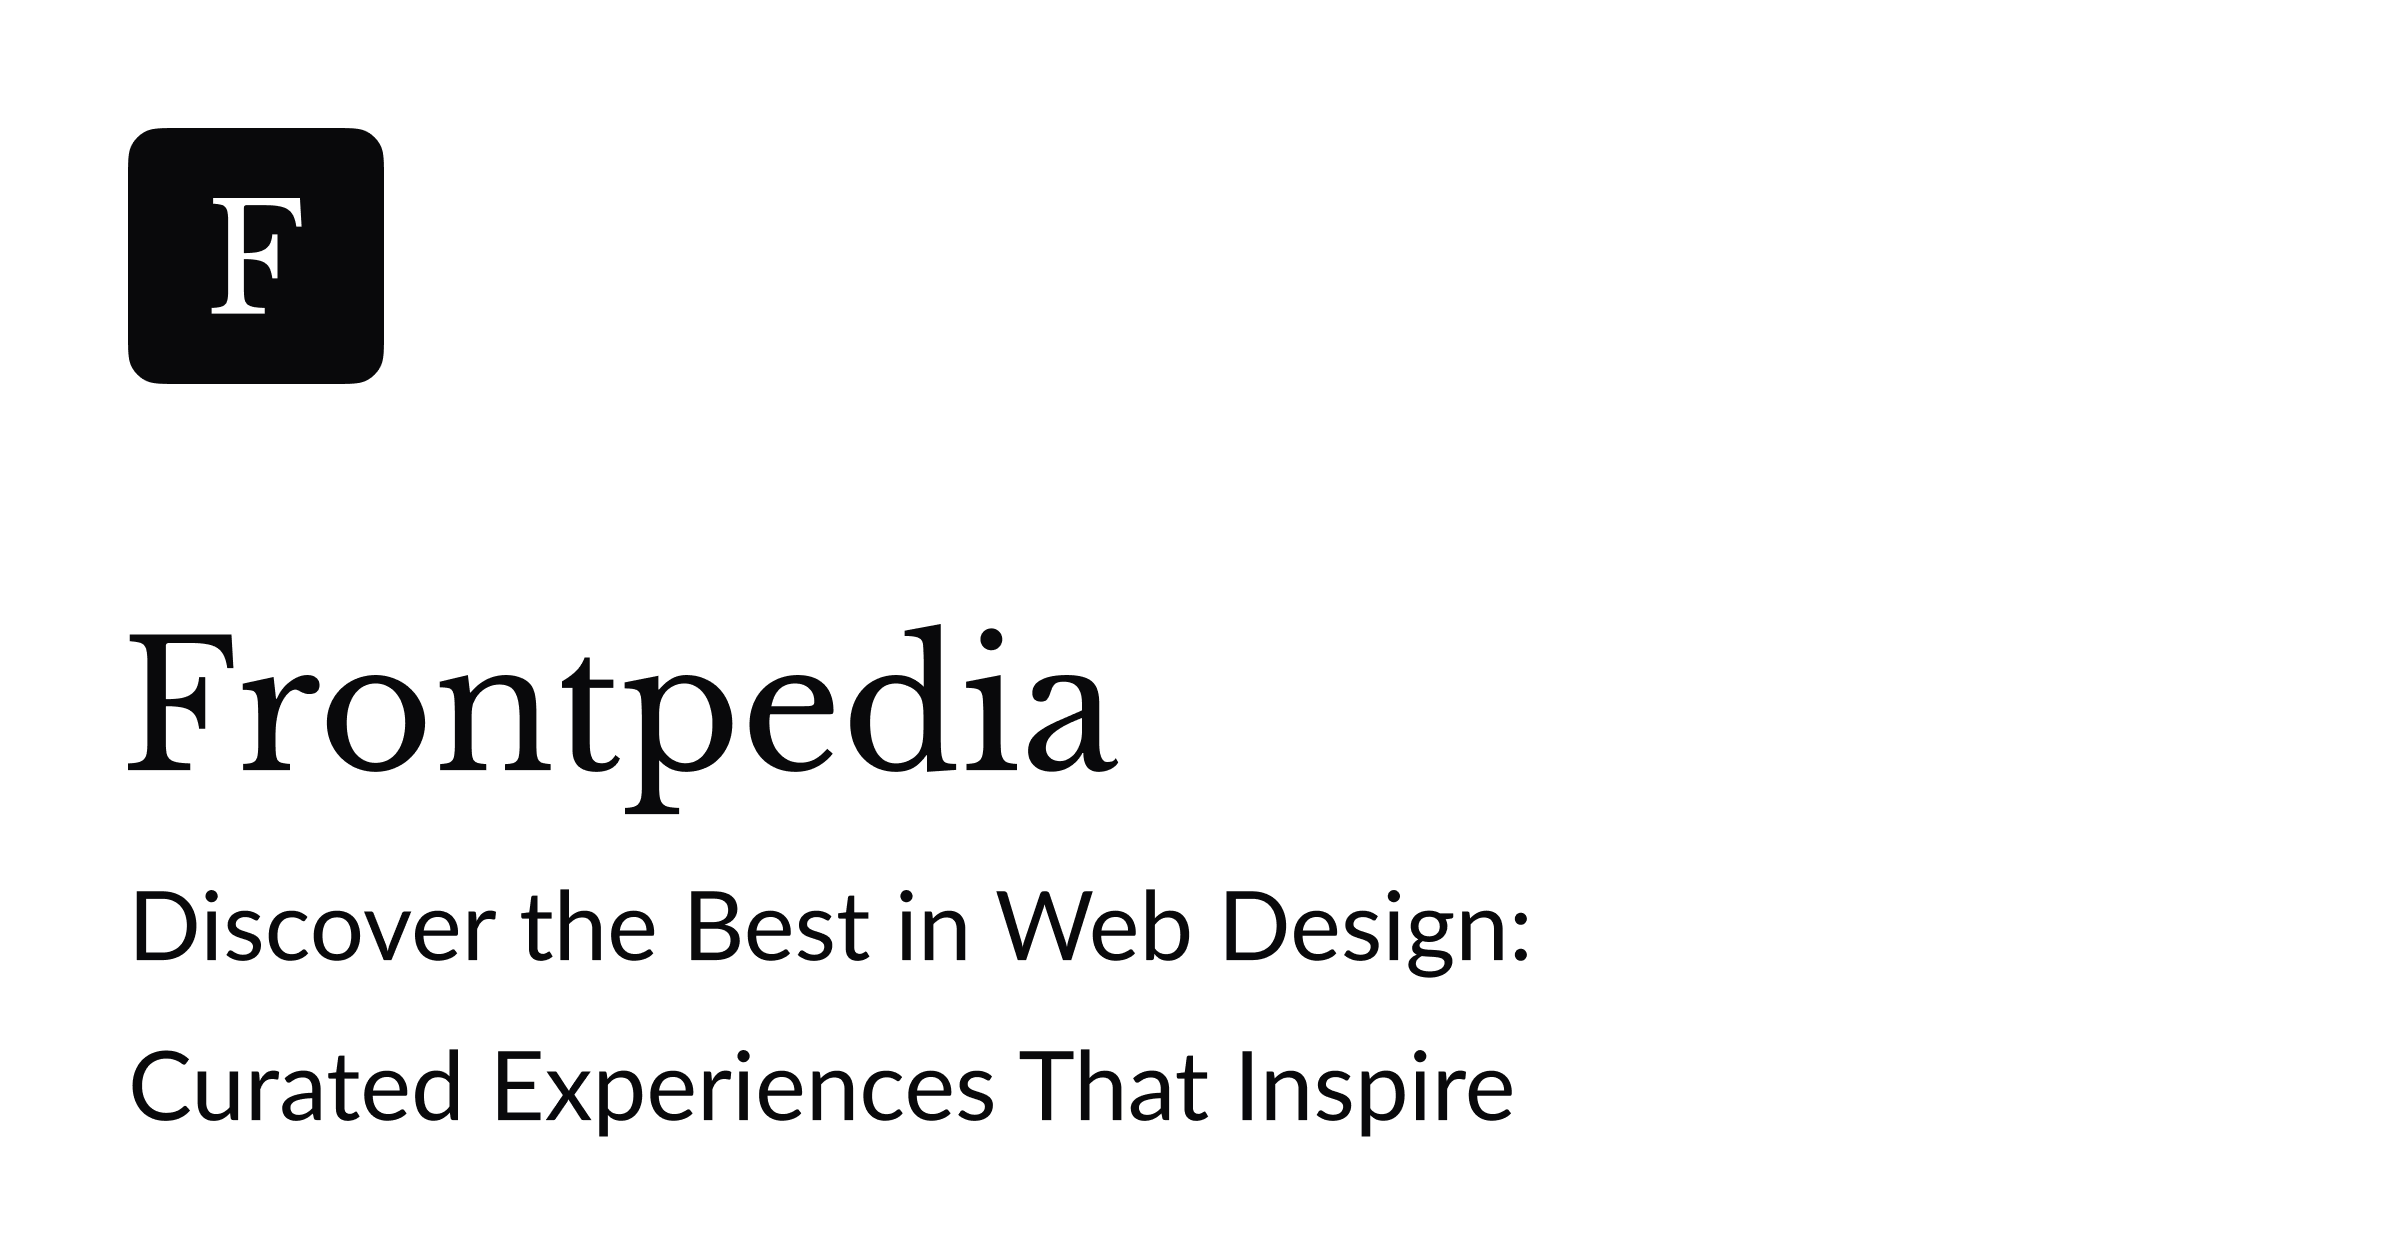
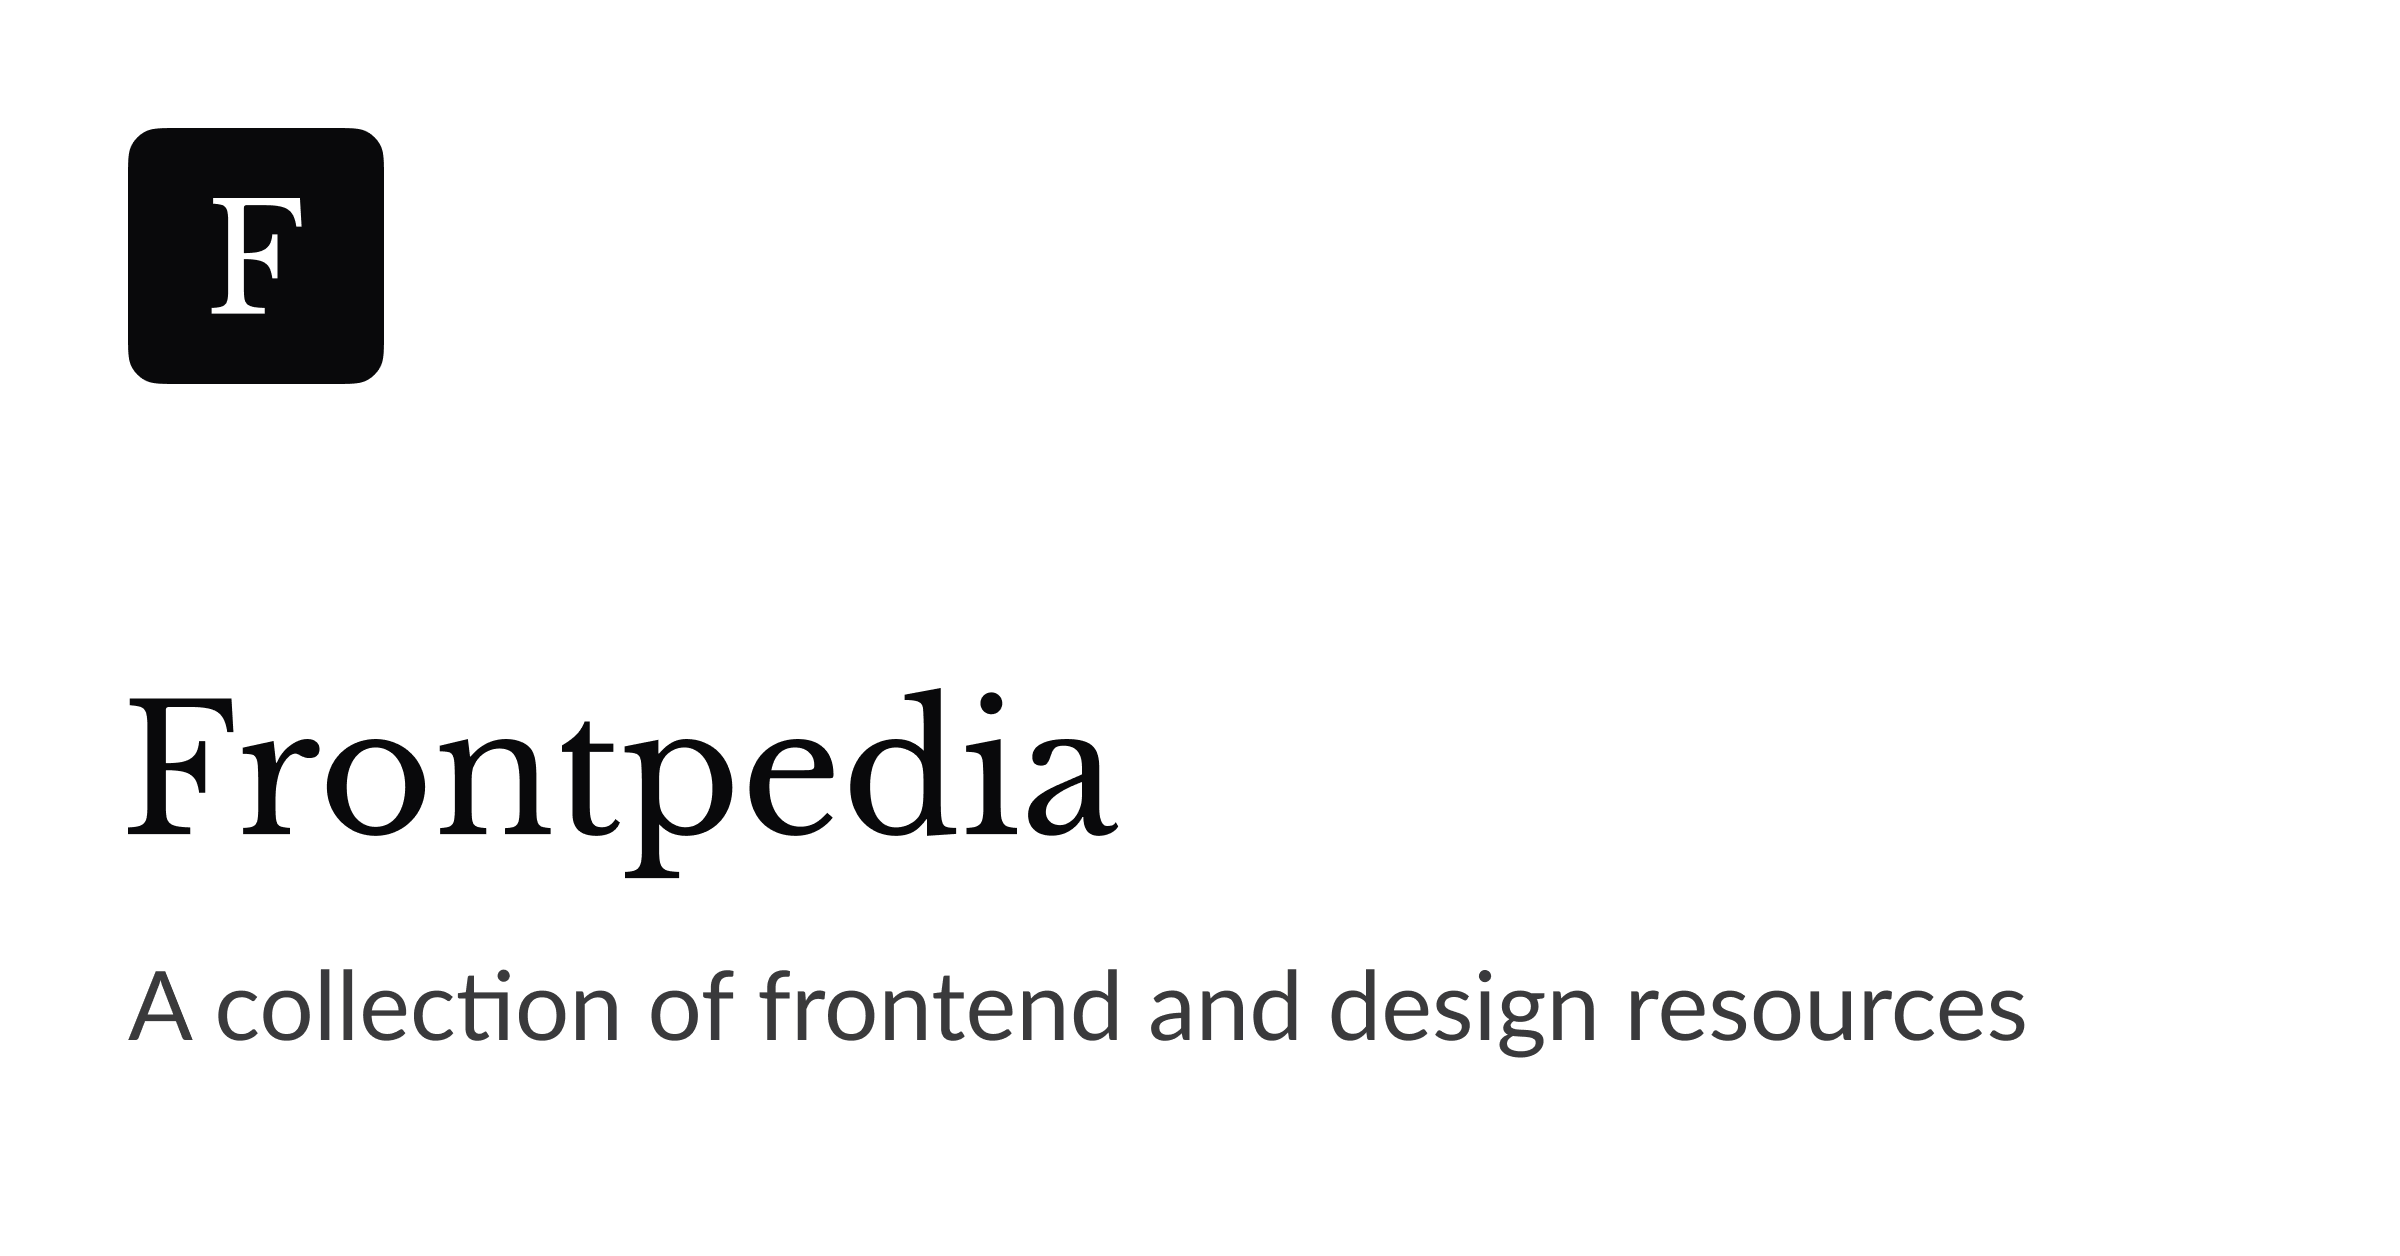
feat: drop the -

Changed region(s): [[0.0312, 0.4968, 0.8438, 0.9005]]

diff --git a/src/config/site.ts b/src/config/site.ts
@@ -39,7 +39,7 @@ export const isSubmitContentEnabled = resolveFeatureFlag(
 export const siteConfig = {
   name: "Frontpedia",
   description:
-    "Curated front-end inspiration, design references, UI patterns, and development resources for modern web teams.",
+    "Curated frontend inspiration, design references, UI patterns, and development resources for modern web teams.",
   creator: {
     name: "Andre Vitorio",
     handle: "@AndreVitorio",
@@ -47,7 +47,7 @@ export const siteConfig = {
   },
   locale: "en_US",
   keywords: [
-    "front-end inspiration",
+    "frontend inspiration",
     "web design inspiration",
     "ui patterns",
     "design systems",

diff --git a/src/app/(web)/page.tsx b/src/app/(web)/page.tsx
@@ -51,7 +51,7 @@ export default async function Index() {
                 <p
                   className="text-base text-foreground/70"
                 >
-                  A collection of front-end and design resources
+                  A collection of frontend and design resources
                   <br className="hidden min-[368px]:block" /><span className="inline min-[368px]:hidden">&nbsp;</span>
                   by <a href="https://x.com/AndreVitorio" target="_blank" rel="noopener noreferrer" className="font-semibold hover:text-slate-700">Andre Vitorio</a>
                 </p>

diff --git a/src/components/about-modal.tsx b/src/components/about-modal.tsx
@@ -16,7 +16,7 @@ const AboutModal: React.FC = () => {
         <DialogContent>
           <h1 className="text-xl font-semibold">About Frontpedia</h1>
           <p>
-            Frontpedia is a community-driven platform where front-end developers
+            Frontpedia is a community-driven platform where frontend developers
             and designers can share and discover content.
           </p>
           <p>

diff --git a/src/components/subscribe-form.tsx b/src/components/subscribe-form.tsx
@@ -75,7 +75,7 @@ const SubscribeForm = ({ setAlert, form }: SubmitPostModalProps) => {
           Front-End Dev & Design Delight
         </h3>
         <p>
-          The latest in front-end dev & design straight to your inbox
+          The latest in frontend dev & design straight to your inbox
           every&nbsp;week!
         </p>
       </div>

diff --git a/README.md b/README.md
@@ -4,7 +4,7 @@
 </a>
 
 <p align="center">
-  An open source front-end and design resources website.
+  An open source frontend and design resources website.
 </p>
 
 <p align="center">
@@ -28,7 +28,7 @@
 
 ## Introduction
 
-[Frontpedia](http://frontpedia.com/) is a curation website for designers and front-end developers.
+[Frontpedia](http://frontpedia.com/) is a curation website for designers and frontend developers.
 
 An open source project by [Andre Vitorio](https://x.com/AndreVitorio).
 
@@ -37,7 +37,6 @@ An open source project by [Andre Vitorio](https://x.com/AndreVitorio).
 - 📝 **Full-Featured Dashboard**: Powered by [Outstatic](https://outstatic.com)
 - 🚀 **Quick and Easy Setup**: No hassle installation
 - 💾 **Database-Free**: No need for a separate database
-- 🏠 **Free Hosting**: Zero cost for hosting
 - 🧩 **Custom Fields**: Tailor the data to your needs
 - 🟩 **Google Sheets Integration**: Store submissions easily
 - 💌 **Newsletter Subscription**: Integrated with Resend
@@ -55,7 +54,7 @@ First, follow the instructions in the [Getting Started](https://outstatic.com/do
 
 Click the button below:
 
-[![Deploy with Vercel](https://vercel.com/button)](https://vercel.com/new/clone?repository-url=https%3A%2F%2Fgithub.com%2Favitorio%2Ffrontpedia&env=OUTSTATIC_API_KEY,GOOGLE_SERVICE_ACCOUNT_EMAIL,GOOGLE_PRIVATE_KEY,GOOGLE_SPREADSHEET_ID,RECAPTCHA_SECRET_KEY,RESEND_API_KEY,RESEND_SEGMENT_ID&envDescription=Follow%20the%20instructions%20on%20the%20Frontpedia%20repository.&envLink=https%3A%2F%2Fgithub.com%2Favitorio%2Ffrontpedia%23installation&project-name=frontpedia&repository-name=frontpedia&demo-title=Frontpedia&demo-description=Curated%20front-end%20and%20design%20resources&demo-url=https%3A%2F%2Ffrontpedia.com&demo-image=https%3A%2F%2Ffrontpedia.com%2Fimages%2Fog-image.png)
+[![Deploy with Vercel](https://vercel.com/button)](https://vercel.com/new/clone?repository-url=https%3A%2F%2Fgithub.com%2Favitorio%2Ffrontpedia&env=OUTSTATIC_API_KEY,GOOGLE_SERVICE_ACCOUNT_EMAIL,GOOGLE_PRIVATE_KEY,GOOGLE_SPREADSHEET_ID,RECAPTCHA_SECRET_KEY,RESEND_API_KEY,RESEND_SEGMENT_ID&envDescription=Follow%20the%20instructions%20on%20the%20Frontpedia%20repository.&envLink=https%3A%2F%2Fgithub.com%2Favitorio%2Ffrontpedia%23installation&project-name=frontpedia&repository-name=frontpedia&demo-title=Frontpedia&demo-description=Curated%20frontend%20and%20design%20resources&demo-url=https%3A%2F%2Ffrontpedia.com&demo-image=https%3A%2F%2Ffrontpedia.com%2Fimages%2Fog-image.png)
 
 And follow the [Deploy with Vercel](https://outstatic.com/docs/getting-started#deploy-with-vercel) steps. 
 
